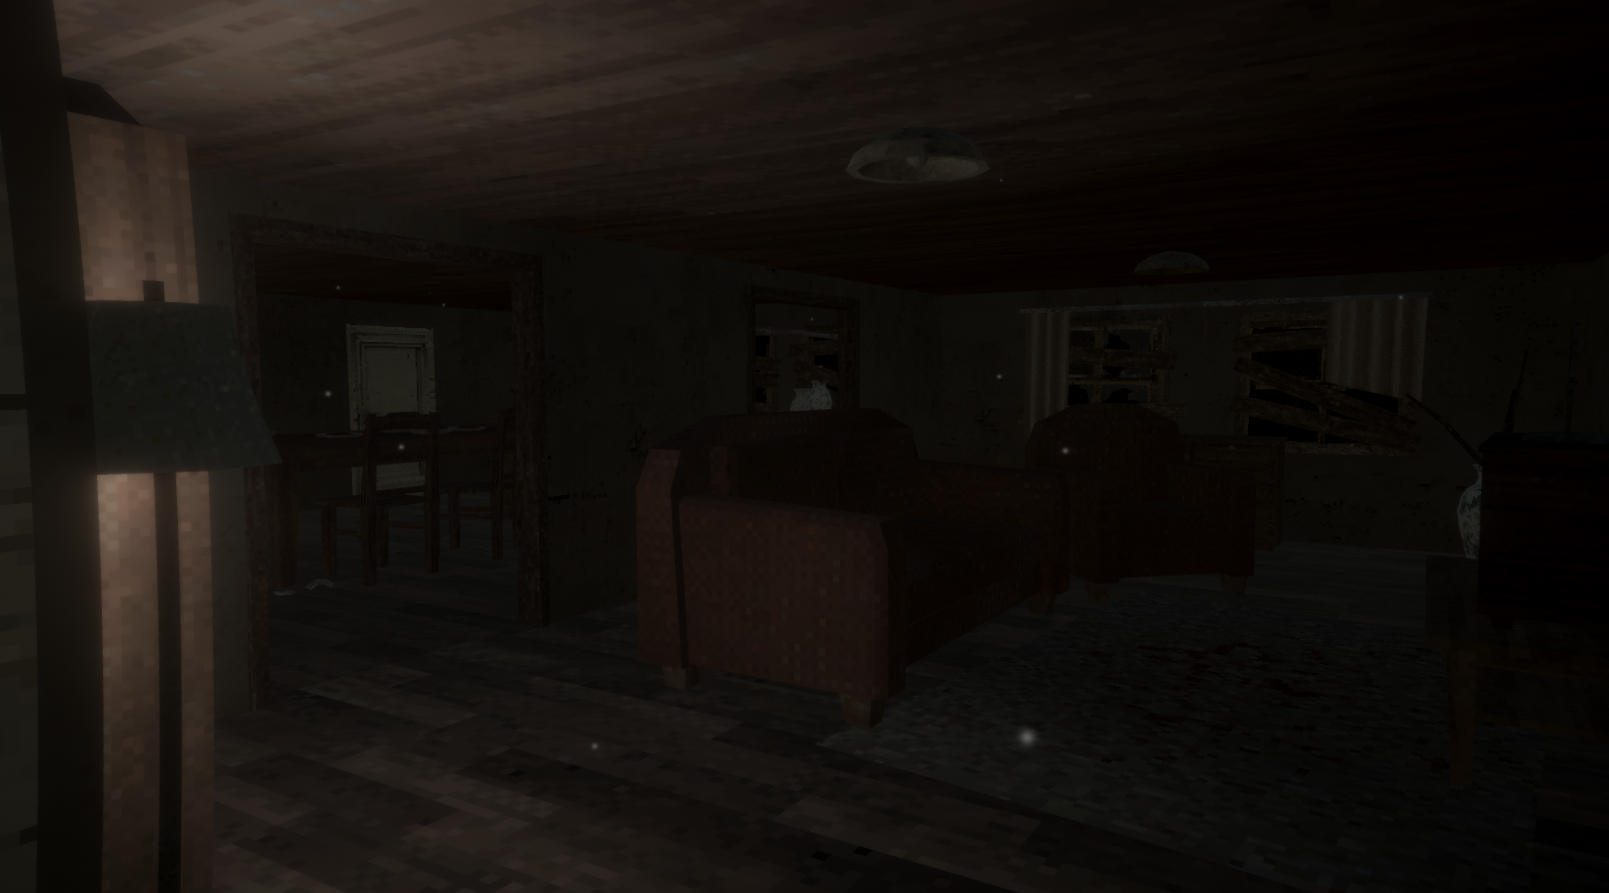
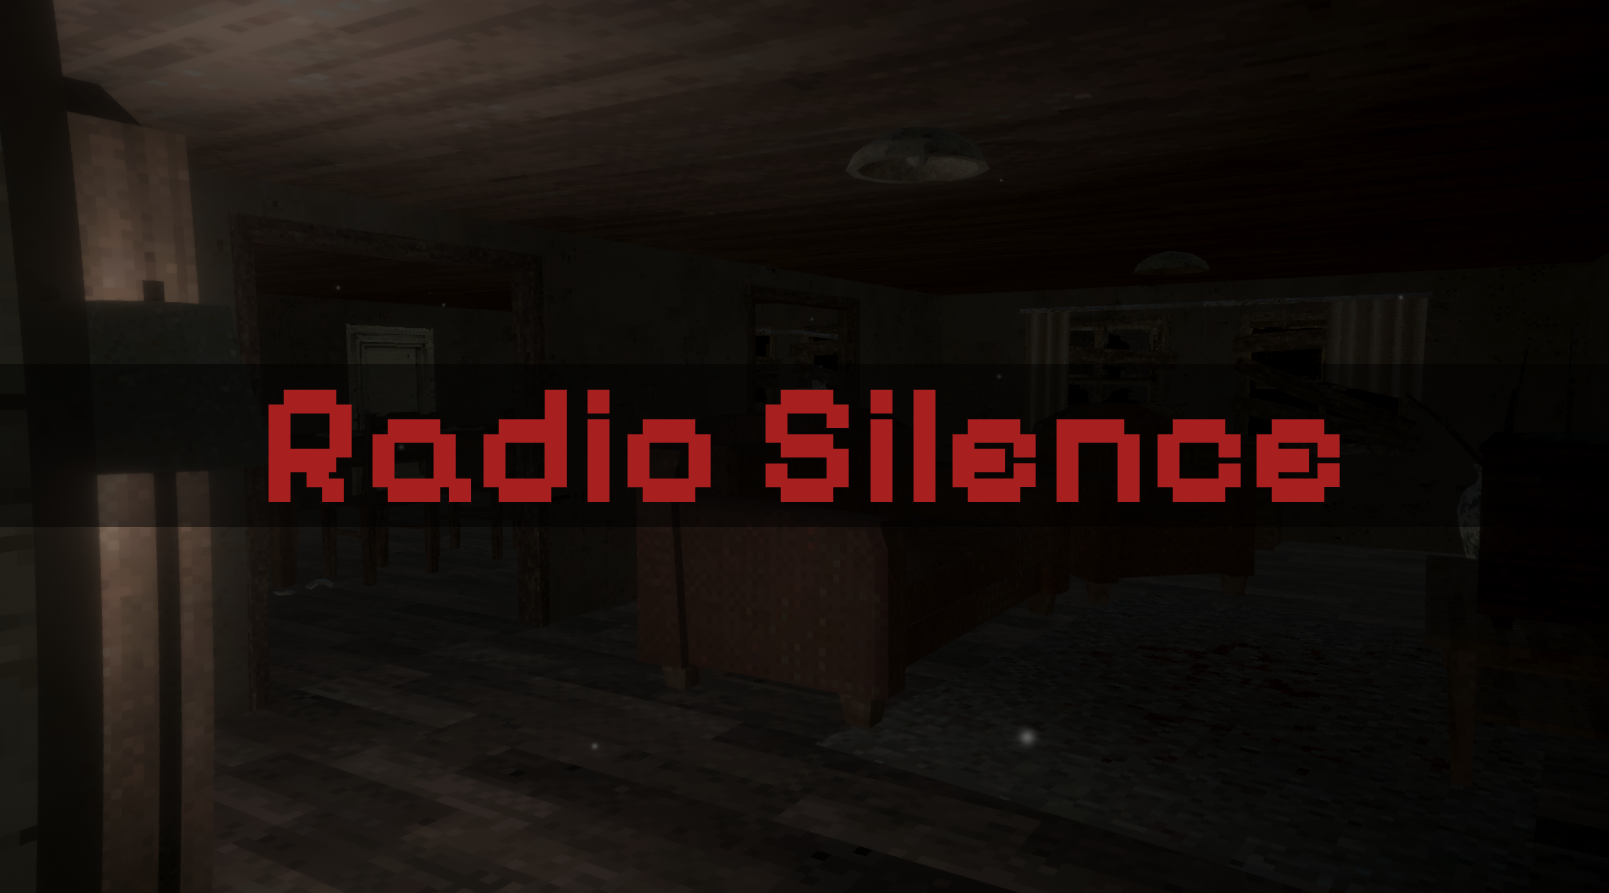
feat: work article games updated

Changed region(s): [[0.0311, 0.4233, 0.839, 0.6047]]

diff --git a/src/WorkArticle.jsx b/src/WorkArticle.jsx
@@ -9,6 +9,7 @@ function WorkArticle() {
     const [work, setWork] = useState(null);
     const [category, setCategory] = useState(null);
     const [selectedImage, setSelectedImage] = useState(null);
+    const [isVideoSelected, setIsVideoSelected] = useState(false);
     const mainImageRef = useRef(null);
 
     useEffect(() => {
@@ -18,6 +19,7 @@ function WorkArticle() {
     useEffect(() => {
         if (work) {
             setSelectedImage(assetPath(`images/works/games/${work.thumbnail}`));
+            setIsVideoSelected(false);
         }
     }, [work]);
 
@@ -46,7 +48,7 @@ function WorkArticle() {
         }
     }
 
-    function switchImage(newPath) {
+    function switchItem(newPath, isVideo = false) {
         if (newPath === selectedImage) return;
 
         gsap.to(mainImageRef.current, {
@@ -55,6 +57,7 @@ function WorkArticle() {
             ease: "power1.in",
             onComplete: () => {
                 setSelectedImage(newPath);
+                setIsVideoSelected(isVideo);
                 gsap.to(mainImageRef.current, {
                     opacity: 1,
                     duration: 0.2,
@@ -72,6 +75,7 @@ function WorkArticle() {
 
     const thumbnailPath = assetPath(`images/works/games/${work.thumbnail}`);
     const screenshotPath = (filename) => assetPath(`images/works/games/${work.title}/${filename}`);
+    const videoPath = work.video ? assetPath(`images/works/games/${work.title}/${work.video}`) : null;
 
     return (
         <section id="work-article-container">
@@ -86,6 +90,10 @@ function WorkArticle() {
                         className="work-article-description"
                         dangerouslySetInnerHTML={{ __html: work.description }}
                     />
+                    <p className="work-article-implemented">
+                        <strong>What I implemented: </strong>
+                        {Array.isArray(work.implemented) ? work.implemented.join(" · ") : work.implemented}
+                    </p>
                     <p className="work-article-tools">
                         <strong>Tools: </strong>
                         {Array.isArray(work.tools) ? work.tools.join(" · ") : work.tools}
@@ -97,7 +105,8 @@ function WorkArticle() {
                     )}
                 </div>
 
-                <div id="work-article-image">
+                {/* RIGHT — main display */}
+                <div id="work-article-image" ref={mainImageRef}>
                     {category === "videos" && work.youtube_embed ? (
                         <iframe
                             src={work.youtube_embed}
@@ -106,9 +115,14 @@ function WorkArticle() {
                             allow="accelerometer; autoplay; clipboard-write; encrypted-media; gyroscope; picture-in-picture"
                             allowFullScreen
                         />
+                    ) : isVideoSelected ? (
+                        <video
+                            src={selectedImage}
+                            controls
+                            autoPlay
+                        />
                     ) : (
                         <img
-                            ref={mainImageRef}
                             src={selectedImage || thumbnailPath}
                             alt={work.title}
                         />
@@ -116,23 +130,39 @@ function WorkArticle() {
                 </div>
             </div>
 
+            {/* GALLERY */}
             {category === "games" && work.screenshot?.length > 0 && (
                 <>
                     <hr id="work-article-divider" />
                     <div id="work-article-screenshots">
+
+                        {/* Thumbnail */}
                         <img
                             src={thumbnailPath}
                             alt={`${work.title} thumbnail`}
-                            className={selectedImage === thumbnailPath ? "active" : ""}
-                            onClick={() => switchImage(thumbnailPath)}
+                            className={selectedImage === thumbnailPath && !isVideoSelected ? "active" : ""}
+                            onClick={() => switchItem(thumbnailPath, false)}
                         />
+
+                        {/* Gameplay video */}
+                        {videoPath && (
+                            <div
+                                className={`gallery-video-thumb ${isVideoSelected ? "active" : ""}`}
+                                onClick={() => switchItem(videoPath, true)}
+                            >
+                                <video src={videoPath} muted />
+                                <span>&#9654;</span>
+                            </div>
+                        )}
+
+                        {/* Screenshots */}
                         {work.screenshot.map((filename, index) => (
                             <img
                                 key={index}
                                 src={screenshotPath(filename)}
                                 alt={`${work.title} screenshot ${index + 1}`}
-                                className={selectedImage === screenshotPath(filename) ? "active" : ""}
-                                onClick={() => switchImage(screenshotPath(filename))}
+                                className={selectedImage === screenshotPath(filename) && !isVideoSelected ? "active" : ""}
+                                onClick={() => switchItem(screenshotPath(filename), false)}
                             />
                         ))}
                     </div>

diff --git a/src/index.css b/src/index.css
@@ -61,7 +61,7 @@ button:hover {
     font-weight: 700;
 }
 
-.typewrite > .wrap {
+.typewrite>.wrap {
     border-right: 0.08em solid #FFBB63;
 }
 
@@ -85,12 +85,12 @@ nav ul {
     justify-content: right;
 }
 
-nav ul li{
+nav ul li {
     transition: 0.2s;
 }
 
 
-nav ul li:hover{
+nav ul li:hover {
     transform: translateY(-2px);
 }
 
@@ -401,6 +401,7 @@ article h2 {
     color: #aaaaaa;
 }
 
+.work-article-implemented,
 .work-article-tools {
     margin-top: 24px;
     font-family: Avenir;
@@ -408,7 +409,7 @@ article h2 {
     color: #cccccc;
 }
 
-#work-article-info > a {
+#work-article-info>a {
     display: inline-block;
     margin-top: 30px;
 }
@@ -434,26 +435,42 @@ article h2 {
     padding-bottom: 8px;
 }
 
-#work-article-screenshots img {
+#work-article-screenshots img,
+#work-article-screenshots div video {
     height: 130px;
     width: 200px;
     object-fit: cover;
     flex-shrink: 0;
     cursor: pointer;
     opacity: 0.5;
-    border: 2px solid transparent;
+    border: solid #ffffff50 1px;
     transition: 0.2s;
 }
 
-#work-article-screenshots img:hover {
+#work-article-screenshots img:hover,
+#work-article-screenshots div:hover,
+#work-article-screenshots div video:hover {
     opacity: 0.8;
 }
 
-#work-article-screenshots img.active {
+#work-article-screenshots img.active,
+#work-article-screenshots div.active,
+#work-article-screenshots div video.active {
     opacity: 1;
     border-color: #ffffff;
 }
 
+#work-article-screenshots div {
+    display: grid;
+    text-align: center;
+    align-items: center;
+    font-size: 250%;
+}
+
+#work-article-screenshots div video, #work-article-screenshots div span {
+    grid-column: 1/2;
+    grid-row: 1/2;
+}
 
 #works-container #work-categories {
     display: grid;
@@ -513,6 +530,11 @@ article h2 {
 #work-article-image {
     border: #ffffff 1px solid;
 }
+
+#work-article-image video {
+    width: 100%;
+}
+
 #work-article-screenshots img {
     border: #4f4f4f 1px solid;
 }
@@ -579,7 +601,7 @@ article h2 {
     gap: 30px;
 }
 
-#skills div article{
+#skills div article {
     background-color: #2A2A2A;
     border-radius: 5px;
     text-align: center;
@@ -594,7 +616,7 @@ article h2 {
     transform: translateY(-5px);
 }
 
-#skills div article img{
+#skills div article img {
     width: 5vw;
     height: 5vw;
     object-fit: contain;